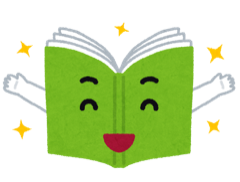
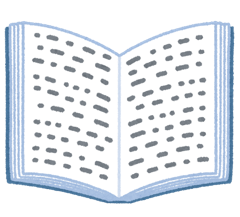
update notion.css 외 3개

diff --git a/app/notion.css b/app/notion.css
@@ -1,7 +1,7 @@
 :root {
   /* Notion light palette — warm grays, never pure black */
-  --notion-bg: #fbfbfa;
-  --notion-sidebar: #f7f6f3;
+  --notion-bg: #ffffff;
+  --notion-sidebar: #ffffff;
   --notion-surface: #ffffff;
   --notion-text: rgb(55, 53, 47);
   --notion-text-soft: rgba(55, 53, 47, 0.81);
@@ -218,7 +218,7 @@ input,
 .nextra-sidebar,
 .nextra-mobile-nav {
   background: var(--notion-sidebar) !important;
-  color: var(--notion-text-soft);
+  color: var(--notion-text);
 }
 
 .nextra-sidebar {
@@ -230,8 +230,10 @@ input,
 .nextra-mobile-nav a,
 .nextra-mobile-nav button {
   border-radius: 4px !important;
+  color: var(--notion-text) !important;
   font-size: 14px;
-  line-height: 1.4;
+  font-weight: 450;
+  line-height: 1.45;
 }
 
 .nextra-sidebar a:hover,
@@ -248,7 +250,17 @@ input,
 .nextra-mobile-nav li.active > button {
   background: var(--notion-active) !important;
   color: var(--notion-text) !important;
-  font-weight: 600;
+  font-weight: 650;
+}
+
+/* Collapsed-section parent buttons (e.g., Lotto, Movie Review) — slightly lighter to make active items stand out */
+.nextra-sidebar li:not(.active) > button[aria-expanded] {
+  color: var(--notion-text-soft) !important;
+  font-weight: 500;
+}
+
+.nextra-sidebar li:not(.active) > button[aria-expanded]:hover {
+  color: var(--notion-text) !important;
 }
 
 .nextra-sidebar-footer {

diff --git a/mdx-components.jsx b/mdx-components.jsx
@@ -34,7 +34,7 @@ const headingIllustrationRules = [
   },
   {
     src: ILLUSTRATION.check,
-    terms: ['데이터 개요', '테스트', '검증', '체크', '타입', 'narrowing', '요약', 'choosing the state structure', 'state 구조의 다섯 가지 원칙'],
+    terms: ['데이터 개요', '테스트', '검증', '체크', '타입', 'narrowing', '각 state에는', 'choosing the state structure', 'state 구조의 다섯 가지 원칙'],
   },
   {
     src: ILLUSTRATION.guide,
@@ -46,7 +46,7 @@ const headingIllustrationRules = [
   },
   {
     src: ILLUSTRATION.question,
-    terms: ['크루의 질문', '크루의 고민', '스스로 진단', '연습 문제', 'reacting to input with state', '그러나', '언제'],
+    terms: ['크루의 질문', '크루의 고민', '12쌍 페어의 고민', '스스로 진단', '연습 문제', 'reacting to input with state', '그러나', '언제'],
   },
   {
     src: ILLUSTRATION.code,
@@ -66,7 +66,7 @@ const headingIllustrationRules = [
   },
   {
     src: ILLUSTRATION.idea,
-    terms: ['한 문장으로 요약하면', '해설', 'you might not need an effect', 'effect'],
+    terms: ['한 문장으로 요약하면', '해설', '요약', 'you might not need an effect', 'effect'],
   },
   {
     src: ILLUSTRATION.learning,
